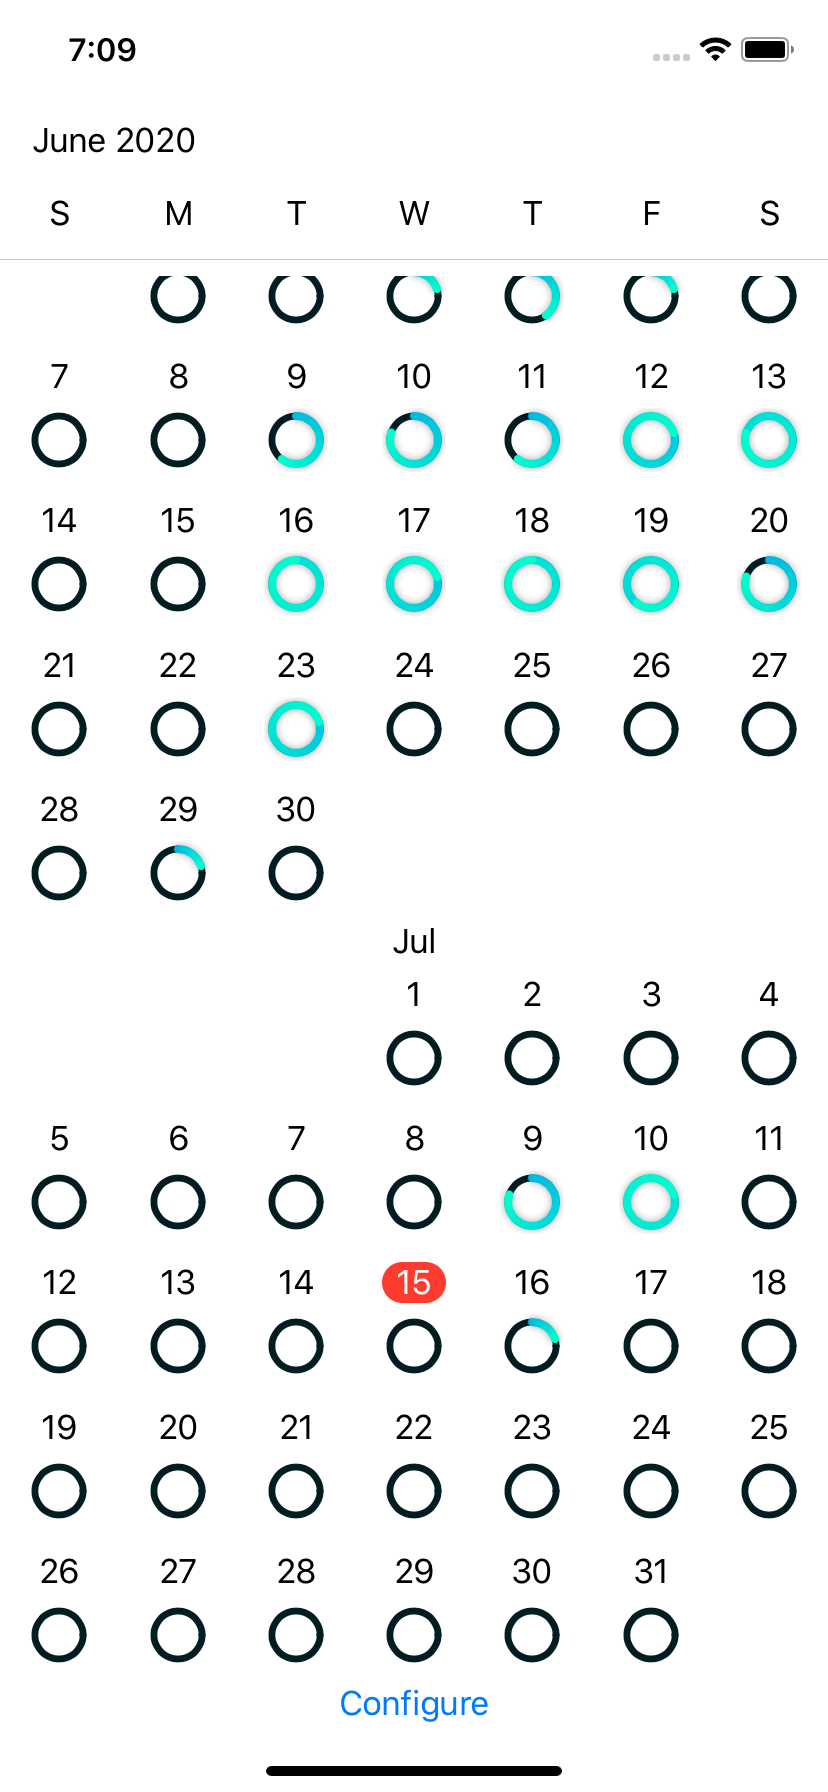
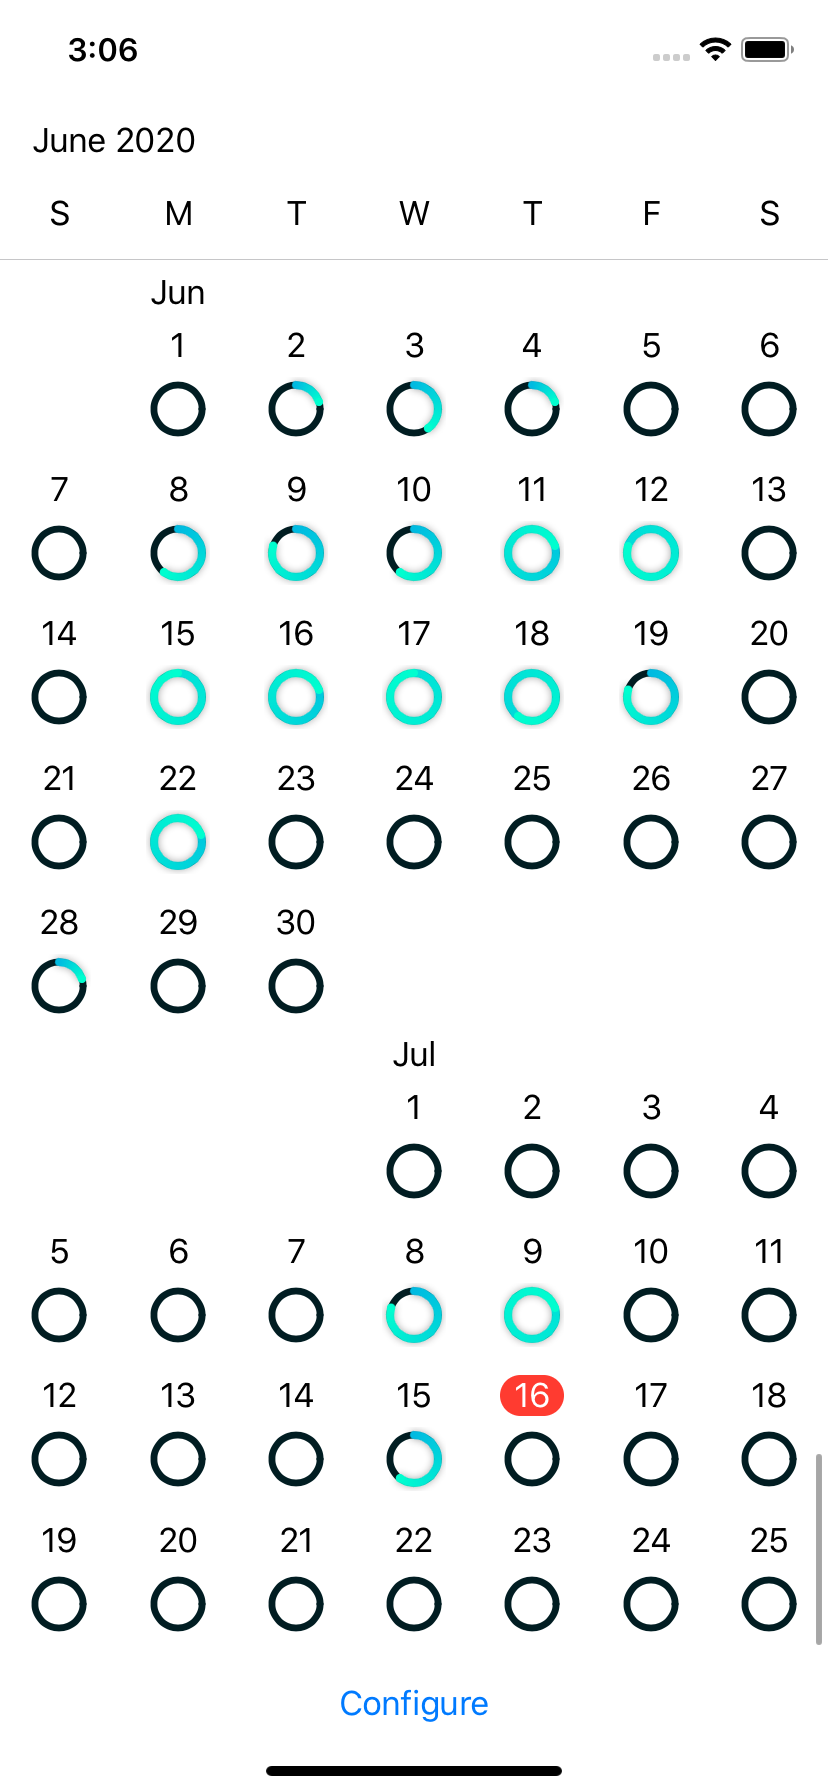
Dark mode screenshot

diff --git a/README.md b/README.md
@@ -11,6 +11,10 @@ Inspired by https://github.com/JustinFincher/GitHubContributionsiOS
 
 <img src="Screenshots/contributions_calendar.png" width="300">
 
+## Dark mode
+
+<img src="Screenshots/dark_mode.png" width="300">
+
 ## Configuration
 
 <img src="Screenshots/configuration.png" width="300">
